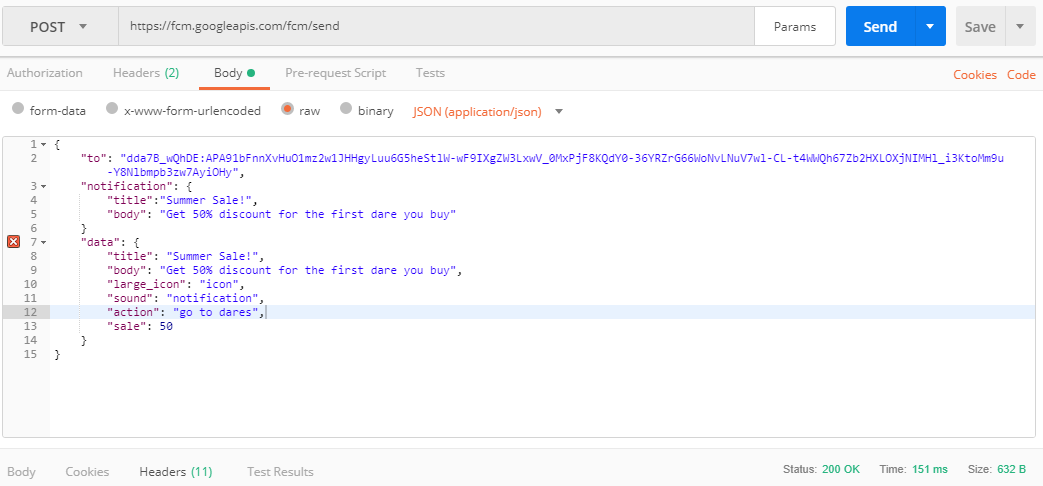
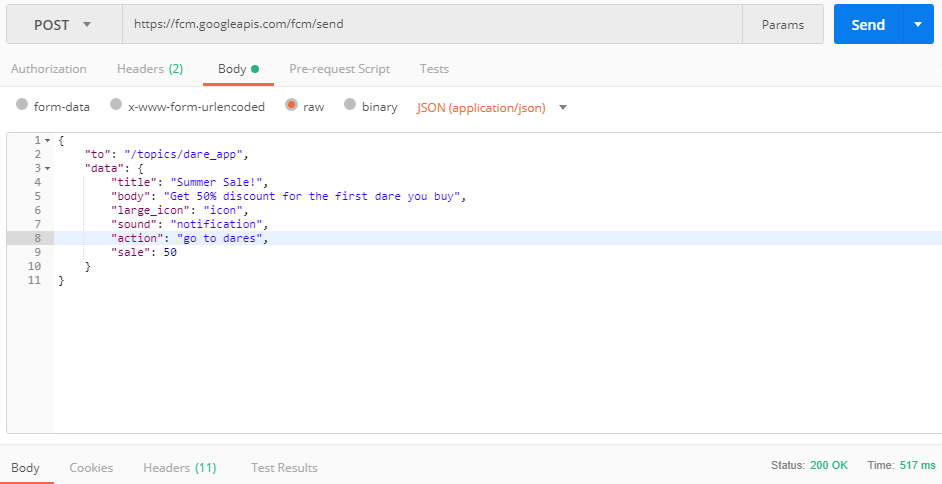
added ThirdNotification and made some fixes

diff --git a/FirebaseAuthAndConfig/app/src/main/java/com/deanoy/user/firebaseauthandconfig/AllProductsActivity.java b/FirebaseAuthAndConfig/app/src/main/java/com/deanoy/user/firebaseauthandconfig/AllProductsActivity.java
@@ -9,6 +9,7 @@ import android.support.v7.widget.RecyclerView;
 import android.util.Log;
 import android.view.View;
 import android.widget.ArrayAdapter;
+import android.widget.Button;
 import android.widget.EditText;
 import android.widget.Spinner;
 import com.google.firebase.auth.FirebaseAuth;
@@ -24,6 +25,7 @@ import java.util.Comparator;
 import java.util.List;
 import java.util.TreeSet;
 
+import Models.AdvancedNotificationData;
 import Models.AnalyticsManager;
 import Models.Dare;
 import Models.DaresAdapter;
@@ -49,6 +51,7 @@ public class AllProductsActivity extends Activity {
 
     // UI
     private Spinner mspnNames;
+    private Button mbtnFilter;
     private EditText metMinProfit;
 
     @Override
@@ -64,6 +67,7 @@ public class AllProductsActivity extends Activity {
 
         //UI
         mspnNames = findViewById(R.id.spnUserNames);
+        mbtnFilter = findViewById(R.id.btnFilter);
         metMinProfit = findViewById(R.id.etMinProfit);
         mDaresView = findViewById(R.id.recyclerView);
 
@@ -79,6 +83,7 @@ public class AllProductsActivity extends Activity {
         getUserDetails();
         getAllDares();
         trackSignInEvents();
+
         Log.e(TAG, "onCreate <<");
     }
 
@@ -91,6 +96,7 @@ public class AllProductsActivity extends Activity {
         {
             finish();
         }
+
         Log.e(TAG, "onStart <<");
     }
 
@@ -112,12 +118,20 @@ public class AllProductsActivity extends Activity {
     }
 
     public void onFilterClick(View v) {
+
         Log.e(TAG, "onFilterCLick >>" );
+
         ArrayList<Dare> filteredDaresArray = new ArrayList<>();
         int minProfit = 0;
         String selectedName = (String)mspnNames.getSelectedItem();
+
+        Log.e(TAG, "filtering by " + selectedName );
         boolean shouldFilterByName = !selectedName.equals(SPINNER_UNFILTERED_OPTION);
         boolean shouldFilterByProfit = !metMinProfit.getText().toString().isEmpty();
+
+        if(shouldFilterByName) {
+            Log.e(TAG, "filtering by Name");
+        }
 
         // Reset for re-filtering
         mDaresList.clear();
@@ -204,6 +218,16 @@ public class AllProductsActivity extends Activity {
                 mNamesArray.addAll(mNameSet);
                 mspnNames.setAdapter(mNamesAdapter);
                 AnalyticsManager.getInstance().setUserProperty(getApplicationContext().getString(R.string.dares_created_count), Integer.toString(userDaresCounter));
+
+                if(AdvancedNotificationData.getInstance().getFilterDares() != null &&
+                        !AdvancedNotificationData.getInstance().getFilterDares().isEmpty())
+                {
+                    int position = mNamesAdapter.getPosition(AdvancedNotificationData.getInstance().getFilterDares());
+                    mspnNames.setSelection(position);
+                    onFilterClick(mbtnFilter);
+                    AdvancedNotificationData.getInstance().setFilterDares("");
+                }
+
                 Log.e(TAG, "onDataChange() <<" );
             }
 

diff --git a/FirebaseAuthAndConfig/app/src/main/java/com/deanoy/user/firebaseauthandconfig/DareDetailsActivity.java b/FirebaseAuthAndConfig/app/src/main/java/com/deanoy/user/firebaseauthandconfig/DareDetailsActivity.java
@@ -146,11 +146,6 @@ public class DareDetailsActivity extends Activity {
 
             mbtnActionButton.setText(btnText);
 
-            if(AdvancedNotificationData.getInstance().getReviewBonus() > 0)
-            {
-                mbtnAddReview.setText(mbtnAddReview.getText() + " for Bonus");
-            }
-
         } else { // User is anonymous
             Log.e(TAG, "setUI << User is anonymous, hide add review button");
             mbtnAddReview.setVisibility(View.INVISIBLE);
@@ -240,6 +235,20 @@ public class DareDetailsActivity extends Activity {
                 Log.e(TAG, "Failed to read value.", databaseError.toException());
             }
         });
+    }
+
+    @Override
+    protected void onStart() {
+        super.onStart();
+
+        if(AdvancedNotificationData.getInstance().getReviewBonus() > 0)
+        {
+            mbtnAddReview.setText("Add Review" + " for Bonus");
+        }
+        else
+        {
+            mbtnAddReview.setText("Add Review");
+        }
     }
 
     // action button is buy /upload photo

diff --git a/FirebaseAuthAndConfig/app/src/main/java/com/deanoy/user/firebaseauthandconfig/MessagingService.java b/FirebaseAuthAndConfig/app/src/main/java/com/deanoy/user/firebaseauthandconfig/MessagingService.java
@@ -28,7 +28,6 @@ public class MessagingService extends FirebaseMessagingService {
 
     }
 
-
     @Override
     public void onMessageReceived(RemoteMessage remoteMessage) {
 
@@ -106,6 +105,11 @@ public class MessagingService extends FirebaseMessagingService {
                 if(mMessagingData.getData().containsKey("reviewBonus"))
                 {
                     AdvancedNotificationData.getInstance().setReviewBonus(Integer.parseInt(mMessagingData.getData().get("reviewBonus")));
+                }
+
+                if(mMessagingData.getData().containsKey("filter"))
+                {
+                    AdvancedNotificationData.getInstance().setFilterDares(mMessagingData.getData().get("filter"));
                 }
 
                 intent.addFlags(Intent.FLAG_ACTIVITY_CLEAR_TOP);

diff --git a/FirebaseAuthAndConfig/app/src/main/java/com/deanoy/user/firebaseauthandconfig/InstanceIDService.java b/FirebaseAuthAndConfig/app/src/main/java/com/deanoy/user/firebaseauthandconfig/InstanceIDService.java
@@ -3,6 +3,7 @@ package com.deanoy.user.firebaseauthandconfig;
 import android.util.Log;
 import com.google.firebase.iid.FirebaseInstanceId;
 import com.google.firebase.iid.FirebaseInstanceIdService;
+import com.google.firebase.messaging.FirebaseMessaging;
 
 
 public class InstanceIDService extends FirebaseInstanceIdService {
@@ -15,6 +16,7 @@ public class InstanceIDService extends FirebaseInstanceIdService {
         Log.e(TAG, "onTokenRefresh() >>");
         // Get updated InstanceID token.
         String deviceToken = FirebaseInstanceId.getInstance().getToken();
+        FirebaseMessaging.getInstance().subscribeToTopic("dare_app");
 
         Log.e(TAG, "onTokenRefresh() << deviceToken="+deviceToken);
     }

diff --git a/FirebaseAuthAndConfig/app/src/main/java/Models/Models/AdvancedNotificationData.java b/FirebaseAuthAndConfig/app/src/main/java/Models/Models/AdvancedNotificationData.java
@@ -5,6 +5,7 @@ public class AdvancedNotificationData {
     private static AdvancedNotificationData mInstance;
     private int mSale; // discount in percents
     private int mReviewBonus; // bonus for review writing
+    private String mFilterDares;
 
     private AdvancedNotificationData()
     {
@@ -40,5 +41,15 @@ public class AdvancedNotificationData {
     public void setReviewBonus(int bonusAmount)
     {
         mReviewBonus = bonusAmount;
+    }
+
+    public String getFilterDares()
+    {
+        return mFilterDares;
+    }
+
+    public void setFilterDares(String filter)
+    {
+        mFilterDares = filter;
     }
 }

diff --git a/FirebaseAuthAndConfig/app/src/main/java/com/deanoy/user/firebaseauthandconfig/WriteReviewActivity.java b/FirebaseAuthAndConfig/app/src/main/java/com/deanoy/user/firebaseauthandconfig/WriteReviewActivity.java
@@ -4,6 +4,7 @@ import android.app.Activity;
 import android.os.Bundle;
 import android.util.Log;
 import android.view.View;
+import android.widget.Button;
 import android.widget.EditText;
 import android.widget.Toast;
 
